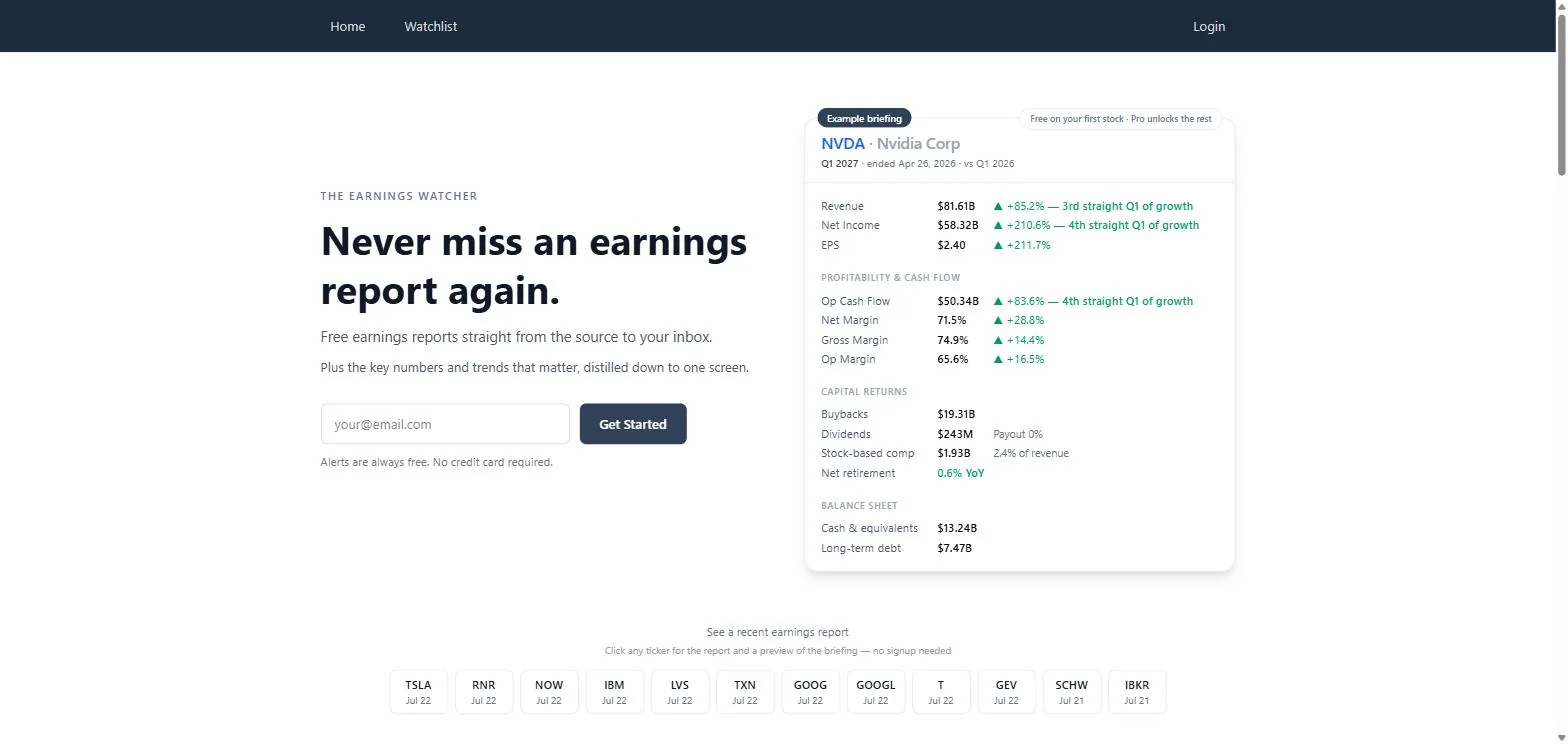
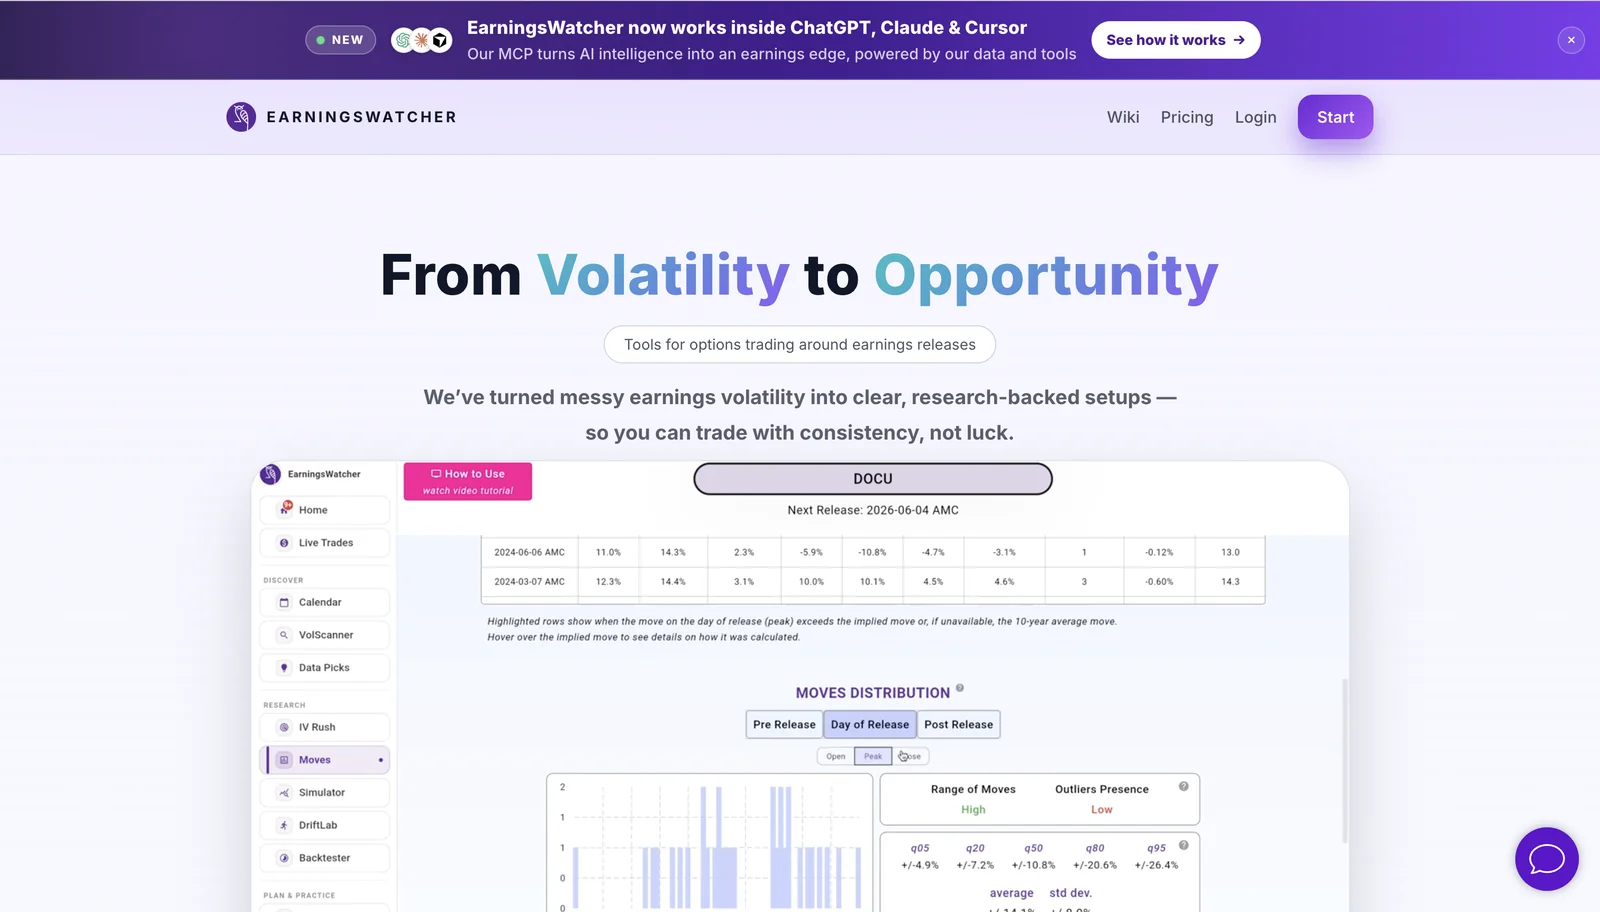
EarningsWatcher review — Amin's requested fixes
Amin emailed 2026-07-28 with 3 concrete corrections and I noticed the
section order didn't match the app sidebar:

- Replace public homepage image (was outdated) with the current
  'From Volatility to Opportunity' hero
- Replace IV Rush screenshot (was TSLA) with the current META view
- Fix Lifetime pricing display: template now renders price_one_time
  as '$1,000 one-time' instead of falling through to 'Free' when
  price_monthly is 0
- Rewrite IV Rush body copy with the actual META numbers from the
  replacement screenshot (previously described GM data)
- Reorder Backtester to sit after DriftLab + methodology so the
  Research group matches the app sidebar
  (IV Rush -> Moves -> Simulator -> DriftLab -> Backtester)

Template change (price_one_time support) benefits any tool with a
lifetime plan going forward.

diff --git a/src/content/review-html/earnings-watcher.html b/src/content/review-html/earnings-watcher.html
@@ -40,7 +40,7 @@
 
 <h2>IV Rush: the pre-earnings volatility ramp, quantified</h2>
 
-<p>The platform's signature research module tracks how implied volatility builds in the final days before a report — the "IV rush" you can potentially harvest without ever holding through the announcement. Pull up a ticker (we looked at GM, two days before its release) and the snapshot answers the only question that matters: <em>is there still juice?</em> Current IV trend: Rising, +3.5% versus the average of the previous three readings. Projection outcome: "Barely Profitable," projected edge +0.9%. Typical last-day IV trend for this name: Flat. Below, the exact ATM straddle (75c/75p) priced now ($5.05) versus projected with the rush ($5.09) and without it, and a chart of the current ATM IV path overlaid on the stock's median historical IV path into earnings. Updates every 15 minutes. The verdict on GM that day was, effectively, "skip it" — and a tool willing to tell you not to trade is worth listening to when it says the opposite.</p>
+<p>The platform's signature research module tracks how implied volatility builds in the final days before a report — the "IV rush" you can potentially harvest without ever holding through the announcement. Pull up a ticker (we looked at META, one day before its 07-29 AMC release) and the snapshot answers the only question that matters: <em>is there still juice?</em> Current IV trend: Stalling, -0.2% versus the average of the previous three readings. Projection outcome: "Barely Profitable," projected edge +3.0%. Typical last-day IV trend for this name: Gradual Rise (typical move +10.2% into earnings). Below, the ATM straddle (595c/595p, exp 07-31) priced now ($49.23) versus projected <em>with</em> the rush ($50.70, +2.98%) and <em>without</em> it ($41.18, -16.35%), and a chart of the current ATM IV path overlaid on the stock's median historical IV path into earnings. Updates every 15 minutes. The verdict here was, effectively, "the upside if the rush materialises is tiny (+3%) and the downside if it doesn't is meaningful (-16%)" — and a tool willing to tell you not to trade is worth listening to when it says the opposite.</p>
 
 <h2>Moves: a decade of earnings history on one screen</h2>
 
@@ -56,10 +56,6 @@
 
 <p>Hit RUN and the Price Simulation engine plays your structure through four scenarios — high and low moves, up and down — with a payoff chart and a day-by-day P&amp;L table. Our test position showed exactly what long premium into earnings looks like when the stock doesn't move: -67.6% by 07-27, -80.6% by 07-28, -91.9% by 07-29. Sobering, and precisely the point — this is where aspiring options buyers learn about risk before the market teaches them. A "Classic Strategies" library offers ready-made setups, and a single Paper Trade button sends any structure to your practice account.</p>
 
-<h2>Backtester: would this trade have worked?</h2>
-
-<p>Before risking anything, the Backtester answers the historical question. Choose a ticker, a side (Long or Short Volatility through earnings), a structure (we tested a strangle), then tune delta and wing width with sliders. The output is a proper strategy report: win rate (53% on our test), a returns panel showing worst (-29.2%), average (+3.8%), median (+2.2%), and best (+71.4%) outcomes measured at your chosen exit point, and a profit factor (1.51 — gross gains versus gross losses). An average-and-median performance path charts how the position typically evolves from the day before to the day after the event, and a per-earnings table shows exactly how each historical report would have treated you at every checkpoint from -1d close to +1d close. The gap between that +3.8% average and +2.2% median — a distribution skewed by occasional big winners — is exactly the kind of insight that separates informed earnings trading from guessing.</p>
-
 <h2>DriftLab: quantifying post-earnings drift</h2>
 
 <p>DriftLab is the Backtester's sibling module — it applies the same statistical treatment to <em>post</em>-earnings drift, the tendency of stocks to keep moving after the initial reaction once IV crush has cleared. This is a distinct, real edge from the pre-earnings volatility ramp: the drift is what feeds the platform's Momentum strategy, and DriftLab is the tool that measures whether a given name actually exhibits it and how long it typically lasts.</p>
@@ -67,6 +63,10 @@
 <h2>How DriftLab works: methodology, plainly explained</h2>
 
 <p>Like most tabs on EarningsWatcher, DriftLab ships with its own methodology explainer — a plain-language page that walks through exactly how the module counts a drift, what it excludes, and how it handles overlapping macro events. That level of transparency is characteristic of the whole platform: every piece of functionality carries its own instructions, and the "how it works" pages are one of the reasons this product doesn't feel like a black box.</p>
+
+<h2>Backtester: would this trade have worked?</h2>
+
+<p>Before risking anything, the Backtester answers the historical question. Choose a ticker, a side (Long or Short Volatility through earnings), a structure (we tested a strangle), then tune delta and wing width with sliders. The output is a proper strategy report: win rate (53% on our test), a returns panel showing worst (-29.2%), average (+3.8%), median (+2.2%), and best (+71.4%) outcomes measured at your chosen exit point, and a profit factor (1.51 — gross gains versus gross losses). An average-and-median performance path charts how the position typically evolves from the day before to the day after the event, and a per-earnings table shows exactly how each historical report would have treated you at every checkpoint from -1d close to +1d close. The gap between that +3.8% average and +2.2% median — a distribution skewed by occasional big winners — is exactly the kind of insight that separates informed earnings trading from guessing.</p>
 
 <h2>Planner, Journal, and Live Trades: the process layer</h2>
 
